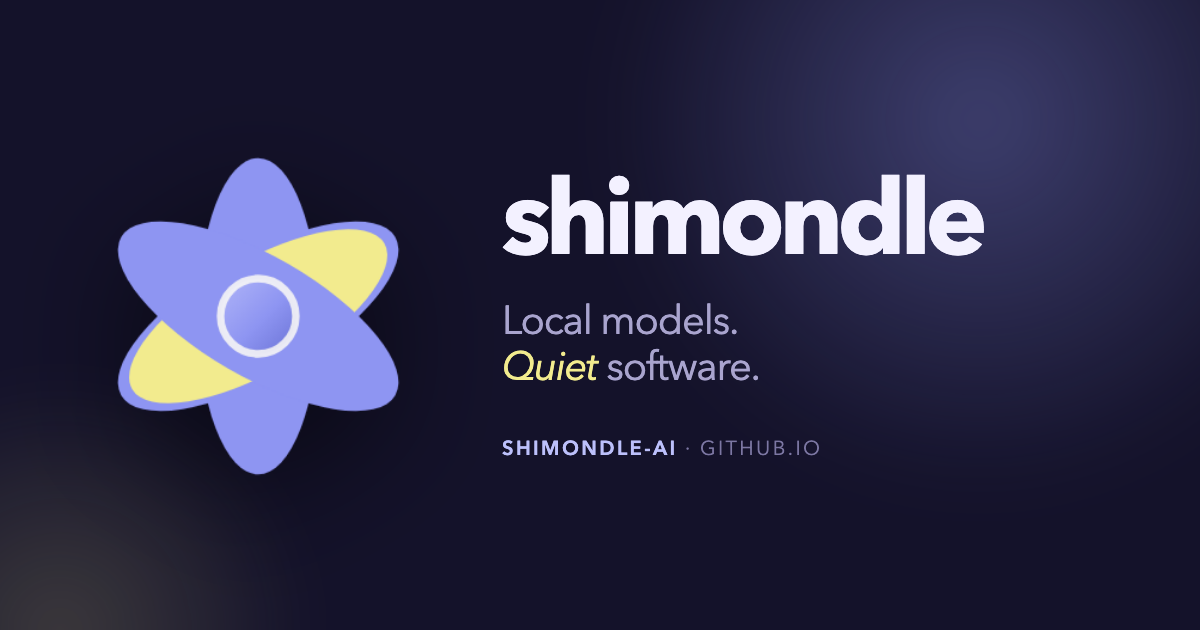
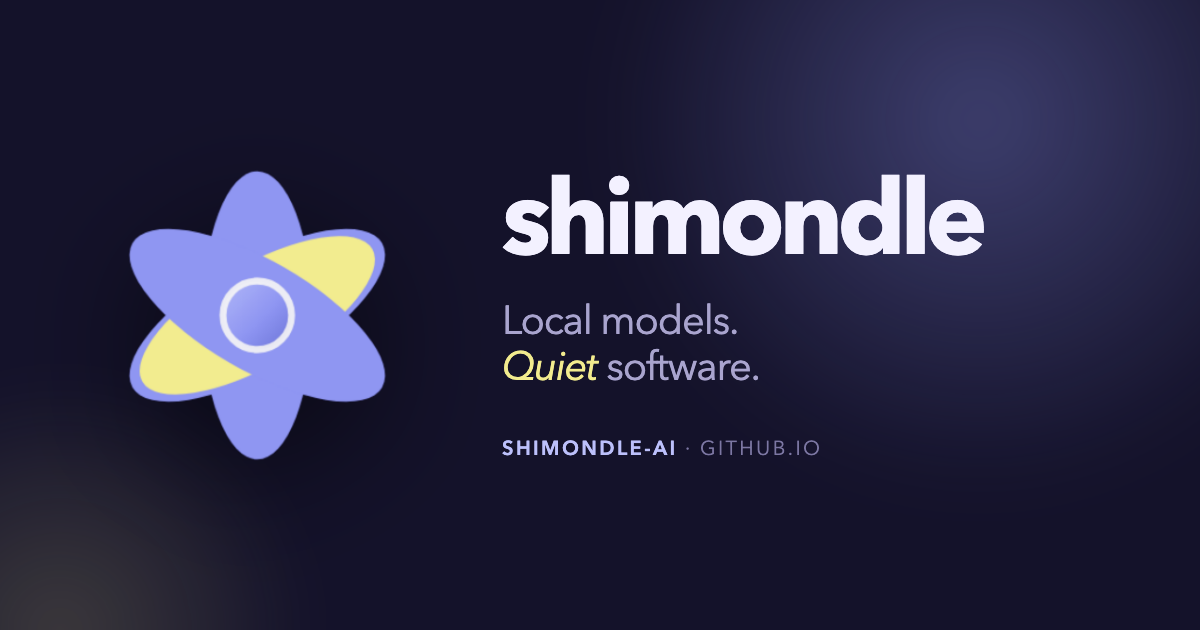
Polish the org site
Use the high-resolution mark cutout so the hero stays crisp, swap the
overlapping screenshots for an Indigo/Parchment switcher, make the header
full-bleed and frosted only once scrolled, and add the social card,
sitemap, robots and a custom 404.

Changed region(s): [[0.0925, 0.3317, 0.3392, 0.754], [0.0925, 0.2413, 0.2467, 0.4825]]

diff --git a/styles.css b/styles.css
@@ -34,13 +34,13 @@ html[data-theme="light"] {
   --panel-2: #f4f2ea;
   --ink: #1b1833;
   --muted: #5f5a78;
-  --faint: #8b86a3;
+  --faint: #77728f;
   --line: rgba(27, 24, 51, 0.12);
   --line-strong: rgba(27, 24, 51, 0.22);
   --accent: #8e95f2;
   --accent-ink: #565dcc;
   --accent-soft: rgba(142, 149, 242, 0.16);
-  --butter: #9c8c0c;
+  --butter: #9a7d08;
   --butter-soft: rgba(194, 178, 26, 0.14);
   --nav-bg: rgba(251, 250, 246, 0.78);
   --glow-a: rgba(142, 149, 242, 0.22);
@@ -109,8 +109,10 @@ a { color: inherit; }
 .glow {
   position: absolute;
   border-radius: 50%;
-  filter: blur(90px);
+  filter: blur(60px);
   opacity: 0.9;
+  -webkit-mask-image: radial-gradient(circle, #000 38%, transparent 72%);
+  mask-image: radial-gradient(circle, #000 38%, transparent 72%);
 }
 
 .glow-a {
@@ -153,17 +155,25 @@ html[data-theme="light"] .grain {
   position: sticky;
   top: 0;
   z-index: 40;
+  background: transparent;
+  border-bottom: 1px solid transparent;
+  transition: background 0.25s ease, border-color 0.25s ease;
+}
+
+body.scrolled .nav {
+  background: var(--nav-bg);
+  backdrop-filter: saturate(160%) blur(16px);
+  -webkit-backdrop-filter: saturate(160%) blur(16px);
+  border-bottom-color: var(--line);
+}
+
+.nav-inner {
   display: flex;
   align-items: center;
   gap: 28px;
   max-width: 1200px;
   margin: 0 auto;
   padding: 14px 28px;
-  background: var(--nav-bg);
-  backdrop-filter: saturate(160%) blur(16px);
-  -webkit-backdrop-filter: saturate(160%) blur(16px);
-  border-bottom: 1px solid transparent;
-  transition: border-color 0.25s ease;
 }
 
 body.scrolled .nav { border-bottom-color: var(--line); }
@@ -233,8 +243,8 @@ body.scrolled .nav { border-bottom-color: var(--line); }
   stroke-linejoin: round;
 }
 
-html[data-theme="dark"] .icon-sun { display: none; }
-html[data-theme="light"] .icon-moon { display: none; }
+html[data-theme="light"] .icon-sun { display: none; }
+html[data-theme="dark"] .icon-moon { display: none; }
 
 /* ---------- buttons ---------- */
 
@@ -386,10 +396,11 @@ h1 em, h2 em {
   animation: float 9s ease-in-out infinite;
 }
 
-.mark-on-light { display: none; }
+html[data-theme="light"] .bloom {
+  filter: drop-shadow(0 22px 44px rgba(27, 24, 51, 0.18));
+}
 
-html[data-theme="light"] .mark-on-dark { display: none; }
-html[data-theme="light"] .mark-on-light { display: block; }
+
 
 .orbit {
   position: absolute;
@@ -465,11 +476,36 @@ h2 {
 
 /* ---------- app shots ---------- */
 
-.shots {
-  position: relative;
-  margin: 72px 0 0;
-  padding-bottom: 96px;
-  min-height: 420px;
+.shots { margin: 44px 0 0; }
+
+.shot-tabs {
+  display: inline-flex;
+  gap: 4px;
+  padding: 4px;
+  margin-bottom: 14px;
+  border: 1px solid var(--line);
+  border-radius: 999px;
+}
+
+.shot-tab {
+  padding: 7px 16px;
+  border: 0;
+  border-radius: 999px;
+  background: transparent;
+  color: var(--muted);
+  font: inherit;
+  font-size: 13px;
+  font-weight: 600;
+  letter-spacing: 0.01em;
+  cursor: pointer;
+  transition: background 0.18s ease, color 0.18s ease;
+}
+
+.shot-tab:hover { color: var(--ink); }
+
+.shot-tab.is-active {
+  background: var(--panel-2);
+  color: var(--ink);
 }
 
 .shot {
@@ -483,31 +519,19 @@ h2 {
 }
 
 .shot img {
-  border-radius: 10px;
   width: 100%;
   height: auto;
+  display: block;
+  border-radius: 10px;
+  transition: opacity 0.18s ease;
 }
 
-.shot-back {
-  position: absolute;
-  right: 0;
-  top: 74px;
-  width: 52%;
-  transform: rotate(1.6deg);
-}
-
-.shot-front {
-  position: relative;
-  z-index: 2;
-  width: 72%;
-  transform: rotate(-0.6deg);
-}
+.shot img.is-swapping { opacity: 0; }
 
 .shot-caption {
-  margin: -64px 0 0;
+  margin: 14px 0 0;
   font-size: 13.5px;
   color: var(--faint);
-  text-align: right;
 }
 
 .app-grid {
@@ -783,26 +807,14 @@ h2 {
 @media (max-width: 760px) {
   body { font-size: 16px; }
 
-  .nav { padding: 12px 20px; gap: 12px; }
+  .nav-inner { padding: 12px 20px; gap: 12px; }
   .nav-links { display: none; }
   .brand-word { font-size: 17.5px; }
 
   .section { padding: 76px 20px; }
 
-  .shots { margin-top: 44px; padding-bottom: 0; min-height: 0; }
-
-  .shot-back {
-    position: relative;
-    top: 0;
-    right: auto;
-    width: 100%;
-    transform: none;
-    margin-top: 16px;
-  }
-
-  .shot-front { width: 100%; transform: none; }
-
-  .shot-caption { margin: 18px 0 0; text-align: left; }
+  .shots { margin-top: 36px; }
+  .shot-caption { margin: 12px 0 0; }
 
   .app-grid { margin-top: 44px; }
 

diff --git a/index.html b/index.html
@@ -40,6 +40,7 @@
 </div>
 
 <header class="nav">
+  <div class="nav-inner">
   <a class="brand" href="#top" aria-label="Shimondle home">
     <img class="brand-mark" src="assets/mark-dark.png" alt="" width="30" height="30">
     <span class="brand-word">shimondle</span>
@@ -61,6 +62,7 @@
       GitHub
     </a>
   </div>
+  </div>
 </header>
 
 <main id="main">
@@ -77,7 +79,7 @@
       <div class="cta">
         <a class="btn btn-primary" href="#app">
           See the app
-          <svg viewBox="0 0 16 16" aria-hidden="true"><path d="M8 2.5a.75.75 0 0 1 .75.75v6.44l2.22-2.22a.75.75 0 1 1 1.06 1.06l-3.5 3.5a.75.75 0 0 1-1.06 0l-3.5-3.5a.75.75 0 1 1 1.06-1.06l2.22 2.22V3.25A.75.75 0 0 1 8 2.5Z"/><path d="M3 12.25a.75.75 0 0 1 .75.75.75.75 0 0 0 .75.75h7a.75.75 0 0 0 .75-.75.75.75 0 0 1 1.5 0A2.25 2.25 0 0 1 11.5 15.25h-7A2.25 2.25 0 0 1 2.25 13a.75.75 0 0 1 .75-.75Z"/></svg>
+          <svg viewBox="0 0 16 16" aria-hidden="true"><path d="M2.8 8a.75.75 0 0 1 .75-.75h7.44L8.77 5.03a.75.75 0 1 1 1.06-1.06l3.5 3.5a.75.75 0 0 1 0 1.06l-3.5 3.5a.75.75 0 1 1-1.06-1.06l2.22-2.22H3.55A.75.75 0 0 1 2.8 8Z"/></svg>
         </a>
         <a class="btn btn-ghost" href="#principles">How we build</a>
       </div>
@@ -88,8 +90,7 @@
       <div class="orbit orbit-a"></div>
       <div class="orbit orbit-b"></div>
       <div class="mark-glow"></div>
-      <img class="bloom mark-on-dark" src="assets/mark-dark.png" alt="" width="360" height="360">
-      <img class="bloom mark-on-light" src="assets/mark-light.png" alt="" width="360" height="360">
+      <img class="bloom" src="assets/mark-hi.png" alt="" width="360" height="360">
     </div>
   </section>
 
@@ -105,14 +106,15 @@
     </div>
 
     <div class="shots">
-      <figure class="shot shot-front">
-        <img src="assets/app-dark.png" alt="Shimondle's dark interface: a conversation with a local model, the model picker, and the conversation list." width="1240" height="830" loading="lazy">
+      <div class="shot-tabs" role="group" aria-label="Screenshot theme">
+        <button class="shot-tab is-active" type="button" data-shot="dark" aria-pressed="true">Indigo</button>
+        <button class="shot-tab" type="button" data-shot="light" aria-pressed="false">Parchment</button>
+      </div>
+      <figure class="shot">
+        <img id="app-shot" src="assets/app-dark.png" alt="Shimondle in its dark indigo theme: a conversation with a local model, the model picker, and the conversation list." width="1240" height="830" loading="lazy">
       </figure>
-      <figure class="shot shot-back">
-        <img src="assets/app-light.png" alt="Shimondle in its parchment light theme." width="1240" height="830" loading="lazy">
-      </figure>
+      <p class="shot-caption">Both themes are drawn from the mark. The toggle in the header switches this site the same way.</p>
     </div>
-    <p class="shot-caption">The same app in indigo and parchment. Both themes are drawn from the mark.</p>
 
     <div class="app-grid">
       <ul class="features">
@@ -172,8 +174,7 @@
   <section class="section studio" id="studio">
     <div class="studio-inner">
       <div class="studio-mark" aria-hidden="true">
-        <img class="mark-on-dark" src="assets/mark-dark.png" alt="" width="120" height="120">
-        <img class="mark-on-light" src="assets/mark-light.png" alt="" width="120" height="120">
+        <img src="assets/mark-hi.png" alt="" width="120" height="120">
       </div>
       <div class="studio-copy">
         <p class="kicker">03 — The studio</p>
@@ -204,8 +205,7 @@
 <footer class="footer">
   <div class="footer-main">
     <div class="footer-brand">
-      <img class="mark-on-dark" src="assets/mark-dark.png" alt="" width="34" height="34">
-      <img class="mark-on-light" src="assets/mark-light.png" alt="" width="34" height="34">
+      <img src="assets/mark-hi.png" alt="" width="34" height="34">
       <span>shimondle</span>
     </div>
     <p class="footer-tag">Local-first AI software.</p>

diff --git a/script.js b/script.js
@@ -41,6 +41,37 @@
   onScroll();
   window.addEventListener("scroll", onScroll, { passive: true });
 
+  var shots = {
+    dark: {
+      src: "assets/app-dark.png",
+      alt: "Shimondle in its dark indigo theme: a conversation with a local model, the model picker, and the conversation list."
+    },
+    light: {
+      src: "assets/app-light.png",
+      alt: "Shimondle in its parchment light theme: the same conversation on a warm white canvas."
+    }
+  };
+  var shotImg = document.getElementById("app-shot");
+  var shotTabs = document.querySelectorAll(".shot-tab");
+  if (shotImg && shotTabs.length) {
+    shotTabs.forEach(function (tab) {
+      tab.addEventListener("click", function () {
+        var key = tab.getAttribute("data-shot");
+        if (!shots[key] || tab.classList.contains("is-active")) return;
+        shotTabs.forEach(function (t) {
+          t.classList.toggle("is-active", t === tab);
+          t.setAttribute("aria-pressed", t === tab ? "true" : "false");
+        });
+        shotImg.classList.add("is-swapping");
+        setTimeout(function () {
+          shotImg.src = shots[key].src;
+          shotImg.alt = shots[key].alt;
+          shotImg.classList.remove("is-swapping");
+        }, 180);
+      });
+    });
+  }
+
   var targets = document.querySelectorAll(".section-head, .shots, .app-grid, .card, .studio-inner, .footer-brand");
   if ("IntersectionObserver" in window && !window.matchMedia("(prefers-reduced-motion: reduce)").matches) {
     targets.forEach(function (el) { el.classList.add("reveal"); });

diff --git a/404.html b/404.html
@@ -22,8 +22,7 @@
 </div>
 <main class="lost">
   <div>
-    <img class="mark-on-dark" src="/assets/mark-dark.png" alt="" width="140" height="140">
-    <img class="mark-on-light" src="/assets/mark-light.png" alt="" width="140" height="140">
+    <img src="/assets/mark-hi.png" alt="" width="140" height="140">
     <p class="kicker">Error 404</p>
     <h1>Nothing <em>here</em>.</h1>
     <p>This page drifted off the map. The models are all still local, and the way home still works.</p>

diff --git a/README.md b/README.md
@@ -24,8 +24,10 @@ assets/       mark, app icon, screenshots, social card
 | panel | `#1D1A3A` |
 | parchment | `#FBFAF6` |
 
-Mark from `shimondle/assets/mark-{dark,light}.png`. Wordmark set in Avenir Next
-700, lowercase, tight tracking.
+Mark artwork comes from the app: `mark-hi.png` is the high-resolution cutout used
+for the hero, studio panel and footer, and `mark-dark.png` is the compact mark for
+the nav. The small `mark-light.png` is kept for light-on-light artwork. Wordmark
+set in Avenir Next 700, lowercase, tight tracking.
 
 ## Deploy
 
